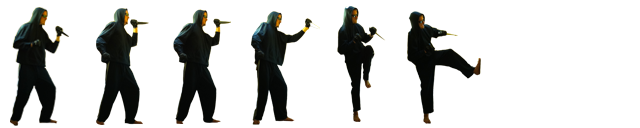
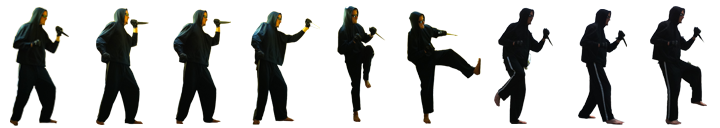
Syncing almost everything plus walking and fighting anims. Bug with holding down keys, trying to fix.

diff --git a/public/js/app.js b/public/js/app.js
@@ -377,20 +377,24 @@ Animation.prototype.draw = function(frame, ctx, x, y, scale, flip) {
     this.id = id;
     this.x = x;
     this.y = y;
-    this.flipped = false;
-    this.image = {anim_name: 'stand', frame: 0};
+    this.flipped = "false";
+    this.anim_state = new AnimState('stand');
     NPC.hash[id] = this;
   }
   NPC.prototype.draw = function(ctx, ox, oy, scale) {
-    ctx.fillStyle = "#f00";
-    ctx.fillRect(ox + this.x * scale - 5, oy + this.y * scale - 5, 10, 10);
-    
-	if (this.flipped) {
-		animation[this.image.anim_name].draw(this.image.frame, ctx, ox + (this.x - 40) * scale, oy + (this.y - 115) * scale, scale, false);
+	if (this.flipped === "true") {	
+	    ctx.fillStyle = "#f00";
+		this.anim_state.enter_frame();
+		this.anim_state.draw(ctx, ox + (this.x - 40) * scale, oy + (this.y - 115) * scale, scale, false);
 	}
 	else {
-		animation[this.image.anim_name].draw(this.image.frame, ctx, ox + (this.x - 40) * scale, oy + (this.y - 115) * scale, scale, true);
+	    //log("NOT FLIPPED!");	
+	    ctx.fillStyle = "#00f";
+		this.anim_state.enter_frame();
+		this.anim_state.draw(ctx, ox + (this.x - 40) * scale, oy + (this.y - 115) * scale, scale, true);
 	}
+	
+	    ctx.fillRect(ox + this.x * scale - 5, oy + this.y * scale - 5, 10, 10);
     
   };
   NPC.prototype.moveTo = function(x, y) {
@@ -402,8 +406,8 @@ Animation.prototype.draw = function(frame, ctx, x, y, scale, flip) {
   
   function Player(id, x, y) {
     this.id = id;
-    this.x = x;
-    this.y = y;
+    this.x = this.last_x = x;
+    this.y = this.last_x = y;
     this.r = 8;
     this.lastHitBy = null;
     this.air_jump = true;
@@ -411,9 +415,16 @@ Animation.prototype.draw = function(frame, ctx, x, y, scale, flip) {
     this.body = this._build_body();
     this.current_action = [this._stand];
     this.wants_to = [];
-    this.anim_state = new AnimState('stand');;
+    this.anim_state = new AnimState('stand');
   } 
   Player.prototype.push = function() {
+  	if (Math.abs(this.x - this.last_x) > 1 || Math.abs(this.y - this.last_y) > 1) {
+	  	this.last_x = this.x;
+	 	this.last_y = this.y;  
+  	}
+  	else {
+  		return;
+  	}
     var data = {method: "position", args: [this.id, this.x, this.y] }
     if (!this.DEAD && this.y > level.deathline){
       this.DEAD = true
@@ -484,11 +495,13 @@ Player.prototype.draw = function(ctx, ox, oy, scale) {
   Player.prototype.handle_input = function() {
     if (keyboard.left.down && !keyboard.right.down) {
     	this.wants_to.push([this._run, -1]);
+    	this.flipped = true;
       //this._run(-1);
     }
     else if (keyboard.right.down && !keyboard.left.down) {
       //this._run(1);
       	this.wants_to.push([this._run, 1]);
+      	this.flipped = false;
     }
     if (keyboard.space.down && keyboard.space.first) {
       //this._jump();
@@ -505,6 +518,12 @@ Player.prototype.draw = function(ctx, ox, oy, scale) {
       this.air_jump = true;
     }
   };
+  Player.prototype.start_action = function(action) {
+	this.current_action = action;
+  	this.anim_state = new AnimState(action[0].animation);
+  	//log("This.flipped: " + this.flipped);
+  	window.ko.send({method: 'playanim', args: [this.id, action[0].animation, this.flipped]});
+  };
   Player.prototype.execute_actions = function() {
   	if (this.wants_to.length > 0) {
 	  	this.wants_to.sort(function(a, b) {
@@ -512,18 +531,15 @@ Player.prototype.draw = function(ctx, ox, oy, scale) {
 	  	});
 	  	var action = this.wants_to.shift();
 	  	if (action[0].priority > this.current_action[0].priority) {
-	  		this.current_action = action;
-		  	this.anim_state = new AnimState(action[0].animation);
+	  		this.start_action(action);
 	  	}
-	  	this.current_action[0].apply(this, this.current_action.slice(1));
 	 }
   	else if (this.anim_state.complete) {
 //  		console.log("Just standing again");
-  		this.current_action = [this._stand];
-  		this.anim_state = new AnimState(this._stand.animation);
+		this.start_action([this._stand]);
   	}
-  	this.wants_to = [];
-	 
+  	this.current_action[0].apply(this, this.current_action.slice(1));  	
+  	this.wants_to = [];	 
   }
   
 // !Player movement
@@ -539,7 +555,6 @@ Player.prototype.draw = function(ctx, ox, oy, scale) {
     var offset = b2Math.AddVV(this.body.GetCenterPosition(), new b2Vec2(0, -this.r * 15));
     this.body.ApplyForce(new b2Vec2(x * 5000, 0), this.body.GetCenterPosition());
     this.body.ApplyTorque(600000 * x);
-    this.flipped = (x > 0) ? false : true;
   };
   Player.prototype._run.priority = 20;
   Player.prototype._run.animation = 'run';
@@ -620,8 +635,12 @@ Player.prototype.draw = function(ctx, ox, oy, scale) {
 		{c: 0, r: 0}
 	];
 
-	animation['run'] = new Animation(sprite['aaron'], 50, 1);
+	animation['run'] = new Animation(sprite['aaron'], 300, 1);
 	animation['run'].order = [
+		{c: 0, r: 0},
+		{c: 6, r: 0},
+		{c: 7, r: 0},
+		{c: 8, r: 0},
 		{c: 0, r: 0}
 	];
 
@@ -687,6 +706,14 @@ Player.prototype.draw = function(ctx, ox, oy, scale) {
         return;
       }
     }
+  };
+  
+  ko.handle.playanim = function(id, name, flipped) {
+  	if (NPC.hash[id]) {
+  		//log("Received flipped: " + flipped);
+  		NPC.hash[id].flipped = flipped;
+	  	NPC.hash[id].anim_state = new AnimState(name);
+	 }
   };
   
   function log(msg) {
